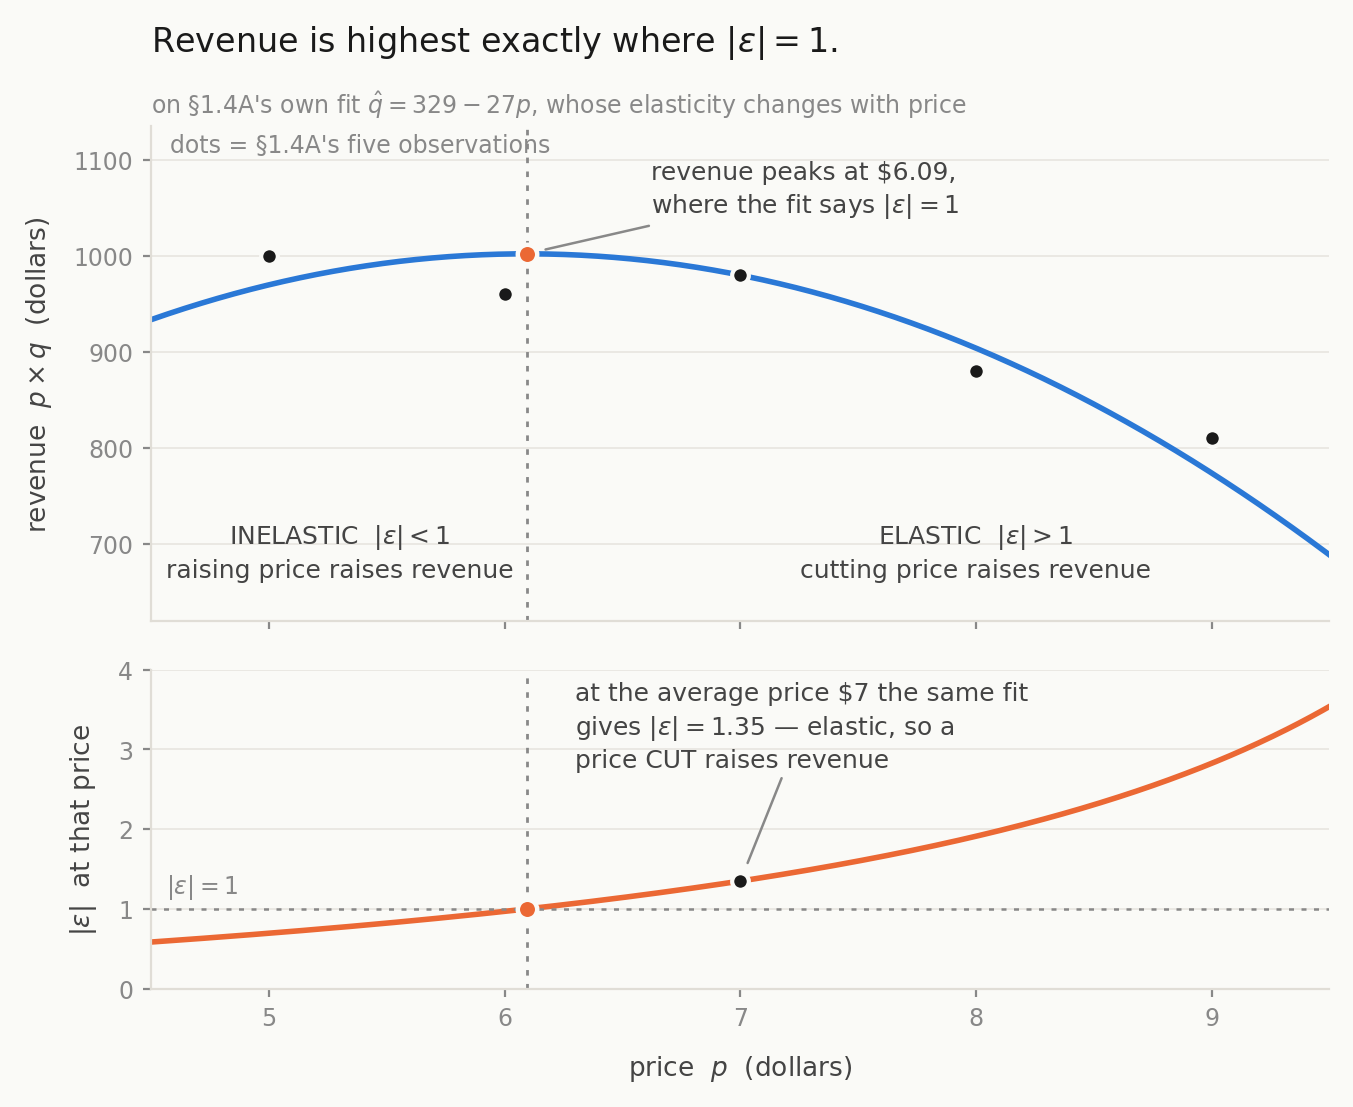
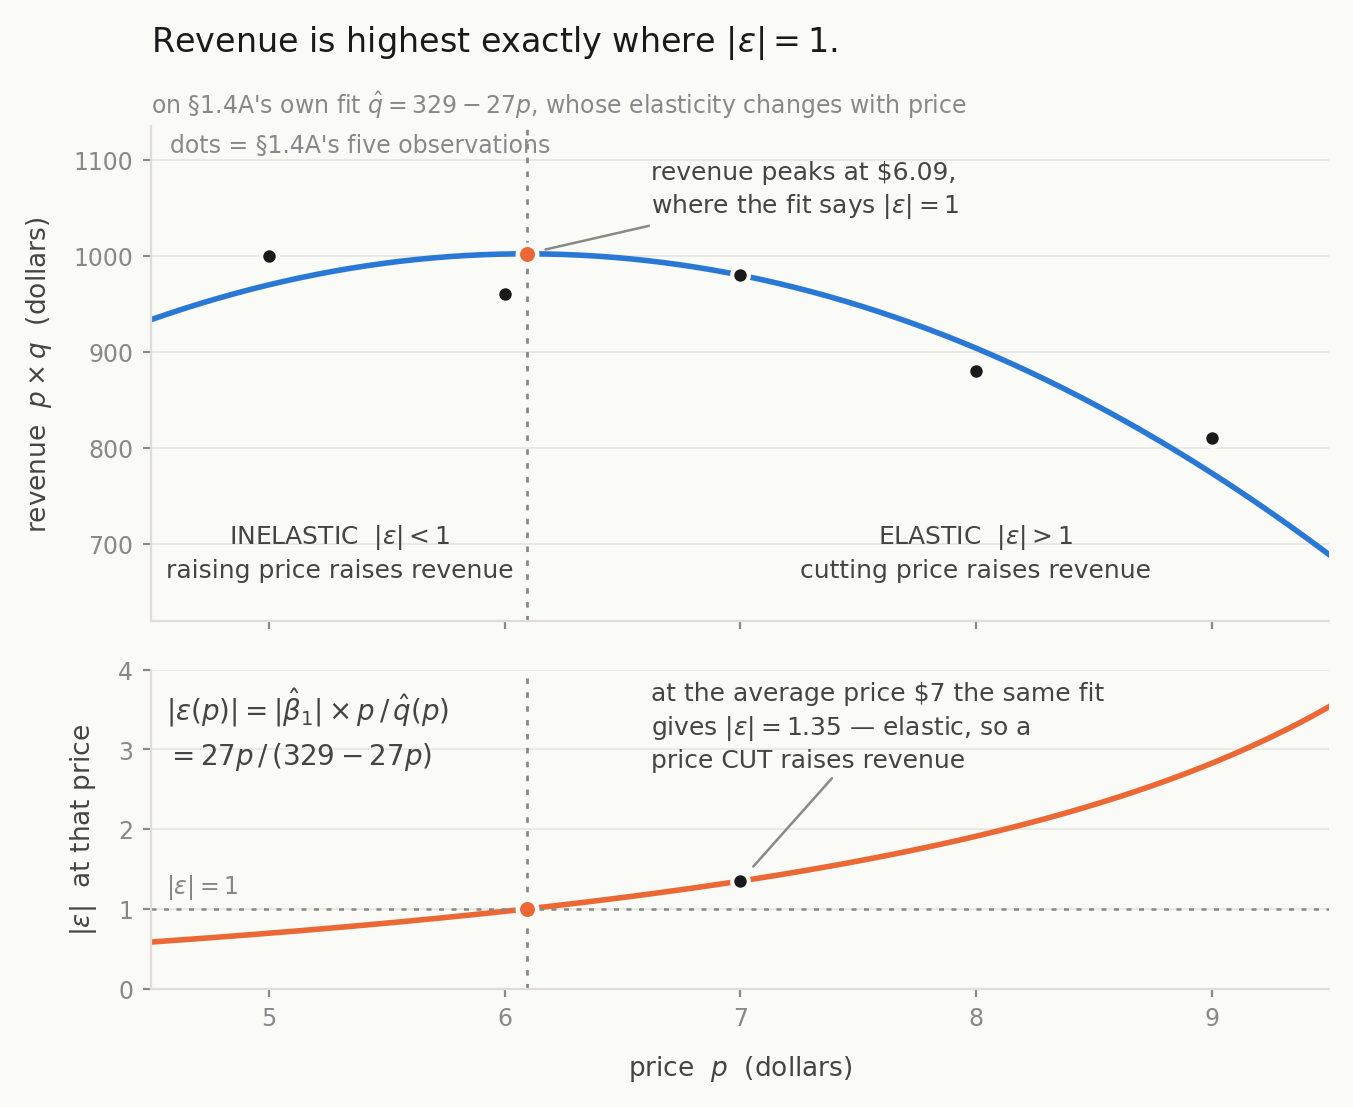
deploy: auto-update from shleeneu/mktg-analytics-course-backup 2026-09-21 16:52 UTC

diff --git a/lecture_notes/lecture_02_price_elasticity_ols.md b/lecture_notes/lecture_02_price_elasticity_ols.md
@@ -318,6 +318,24 @@ the condition the Deep Dive just named. A strict log-log fit would give one elas
 price and no peak to find. The **1.35** marked at \$7 is that same levels fit read at the mean
 price — the local reading of the previous figure's −1.33, not a second estimate of it.
 
+> **How to get an elasticity at one price, since the bottom panel is a curve and not a number.**
+> Elasticity is the percentage change in quantity per percentage change in price, which for a
+> fitted line is its slope re-expressed in percentage terms:
+>
+> $$\varepsilon(p) = \hat{\beta}_1 \times \frac{p}{\hat{q}(p)} \qquad\text{where } \hat{q}(p) = 329 - 27p$$
+>
+> Read it as: *27 fewer units per dollar, expressed as a share of the units you were selling.* So
+> at \$7 the fitted quantity is $\hat{q} = 329 - 27(7) = 140$, and
+> $\varepsilon = -27 \times 7/140 = -1.35$. At \$5: $\hat{q} = 194$, so
+> $\varepsilon = -27 \times 5/194 = -0.70$. At \$9: $\hat{q} = 86$, so
+> $\varepsilon = -27 \times 9/86 = -2.83$.
+>
+> **The slope never changes — the ratio does.** Losing 27 units is a small slice of 194 and a large
+> slice of 86, which is the entire reason a *straight* demand line has an elasticity that varies
+> with price. Note the quantity is the **fitted** $\hat{q}(p)$, not the observed units that week.
+> (\$7 looks special only because the OLS line always passes through the means, so at \$7 the
+> fitted 140 and the mean 140 coincide.)
+
 ---
 
 #### Part C: The Endogeneity Problem
@@ -345,7 +363,15 @@ If prices are set partly in response to demand conditions (managers lower prices
 
 **What this means practically:** If your regression returns elasticity = −0.3 but you know managers are cutting prices when sales are slow, the true elasticity is probably more negative. You are underestimating how much customers care about price.
 
-**The fix (preview):** An instrumental variable — something that affects price but not demand directly — can break the correlation. **Input cost changes** (a wholesale-price or commodity-cost shock) are the standard example in retail pricing research: they move what the retailer charges without themselves changing how much customers want the product.
+> 📌 **What this section is responsible for.** The part you are assessed on is the **idea**: that
+> price set in response to demand breaks OLS's assumption, and that the estimate is then biased
+> rather than merely noisy. That is `homework_02` Q17 and it appears on Quiz 1. **Everything below
+> this line about instrumental variables is background** — read it for orientation, not for
+> mastery. No graded question in this course asks you to choose, justify or compute an instrument,
+> and we do not cover IV estimation. If the rest of this section feels thin, that is deliberate:
+> recognising the problem is this week's job; fixing it is a later course's.
+
+**The fix (preview — reference only):** An instrumental variable — something that affects price but not demand directly — can break the correlation. **Input cost changes** (a wholesale-price or commodity-cost shock) are the standard example in retail pricing research: they move what the retailer charges without themselves changing how much customers want the product.
 
 > ⚠ **A tempting instrument that is not one: in-store display promotions.** Displays are a *demand shifter*, not a price shifter — they lift units at an unchanged price, which is exactly what the exclusion restriction forbids. That is why `display_flag` appears on the **right-hand side as a control** in this week's homework regression, not as an instrument. A variable you have to control for cannot also be your instrument.
 
